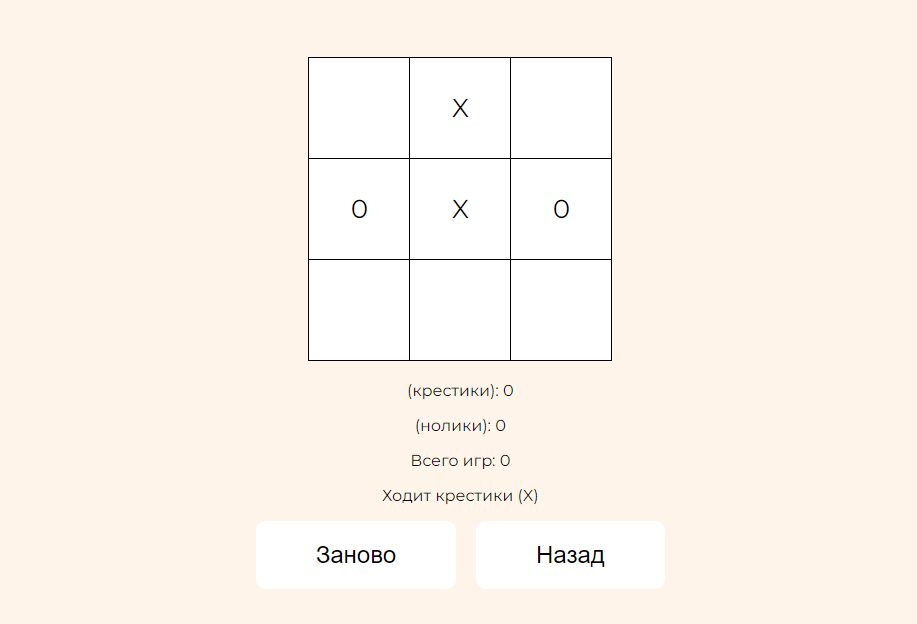
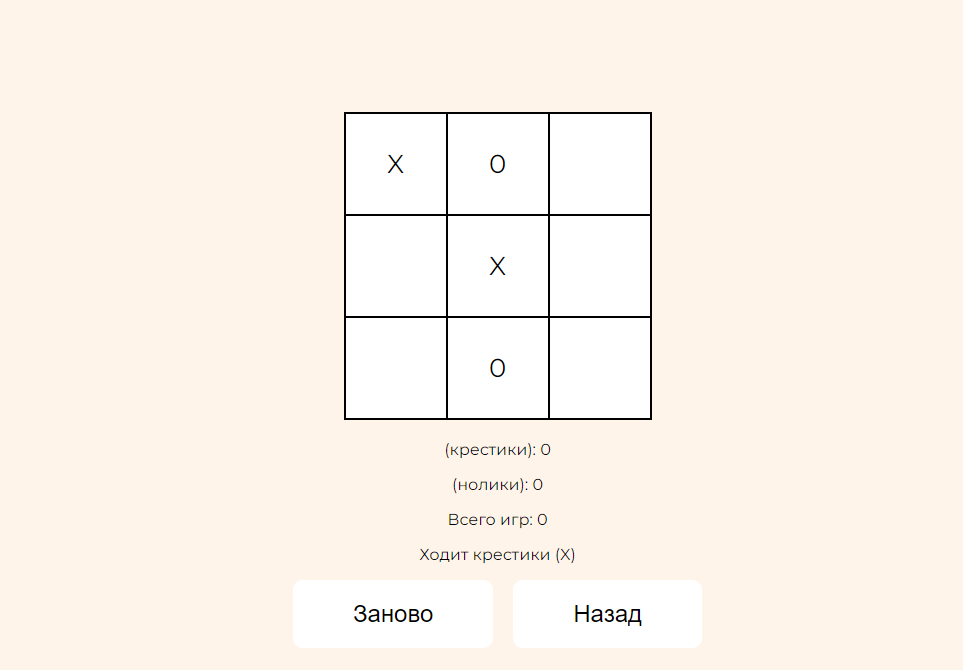
tictactoe small fixies

diff --git a/projects/tictactoe/styles/ticTacToe.css b/projects/tictactoe/styles/ticTacToe.css
@@ -129,7 +129,7 @@ body {
 }
 
 .ticTacToe__cell {
-    border-left: 1px solid #000000; 
+    border-left: 2px solid #000000; 
     width: 100px;
     height: 100px;
     background-color: #FFFFFF;
@@ -141,7 +141,7 @@ body {
 }
 
 .ticTacToe__cell:last-child {
-    border-right: 1px  solid #000000;
+    border-right: 2px  solid #000000;
 }
 
 .ticTacToe__cell:not(.ticTacToe__cell--check):hover {
@@ -161,7 +161,7 @@ body {
 }
 
 .ticTacToe__area {
-    margin-top: 200px;
+    margin-top: 60px;
     display: flex;
     flex-direction: column;
     align-items: center;
@@ -171,11 +171,11 @@ body {
 
 .ticTacToe__areaRow {
     display: flex;
-    border-bottom: 1px solid #000000;
+    border-bottom: 2px solid #000000;
 }
 
 .ticTacToe__areaRow:first-child {
-    border-top: 1px solid #000000;
+    border-top: 2px solid #000000;
 }
 
 @media (max-width: 600px) {

diff --git a/projects/tictactoe/index.html b/projects/tictactoe/index.html
@@ -9,6 +9,6 @@
 </head>
 <body>
     <div id="ticTacToe"></div>
-    <script src="/scripts/ticTacToe.js" type="module"></script>
+    <script src="scripts/ticTacToe.js" type="module"></script>
 </body>
 </html>
